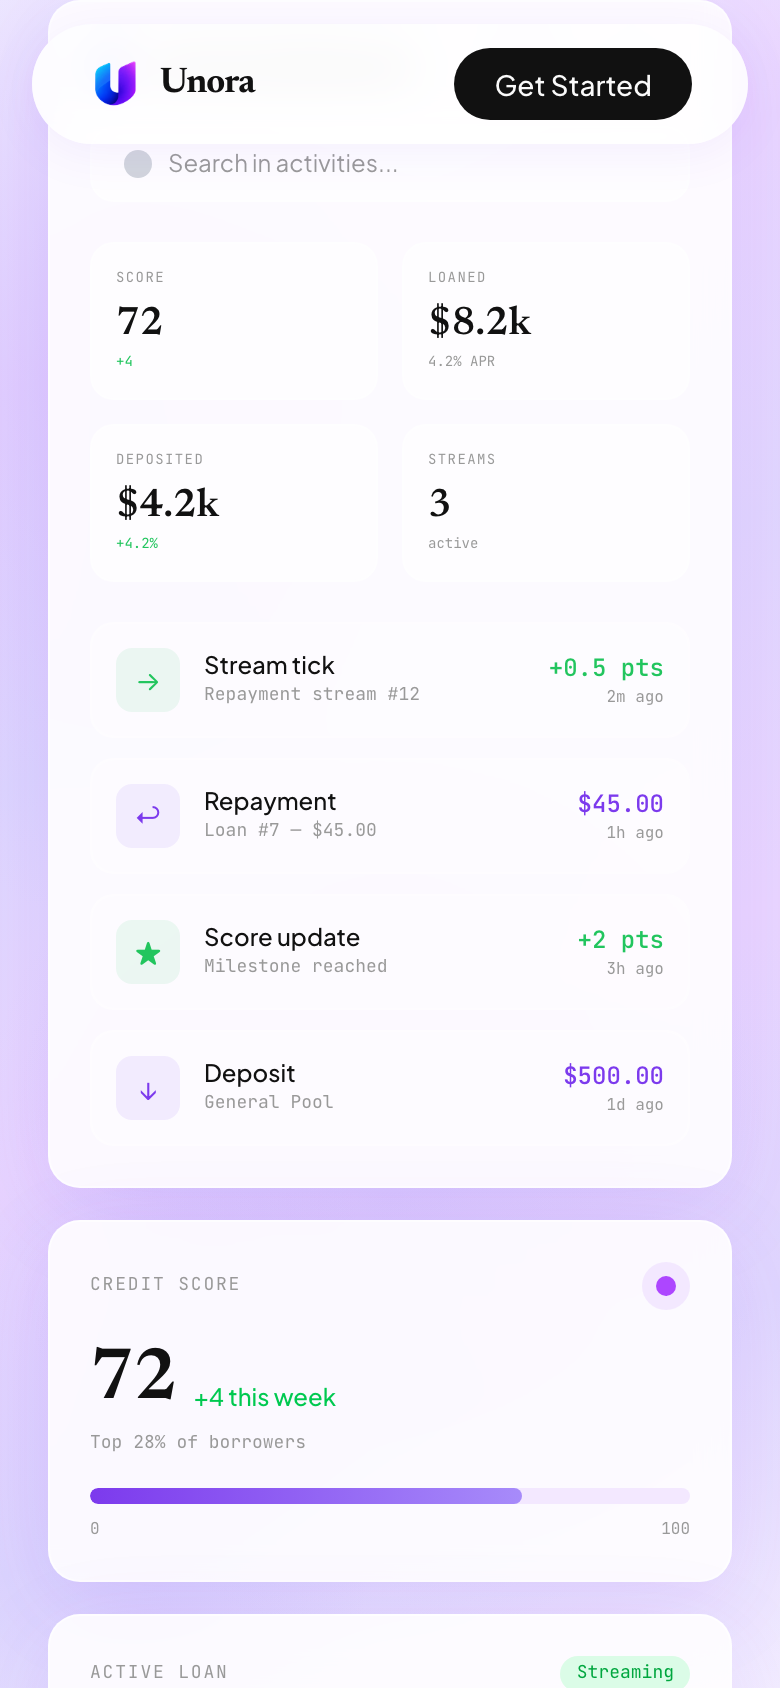
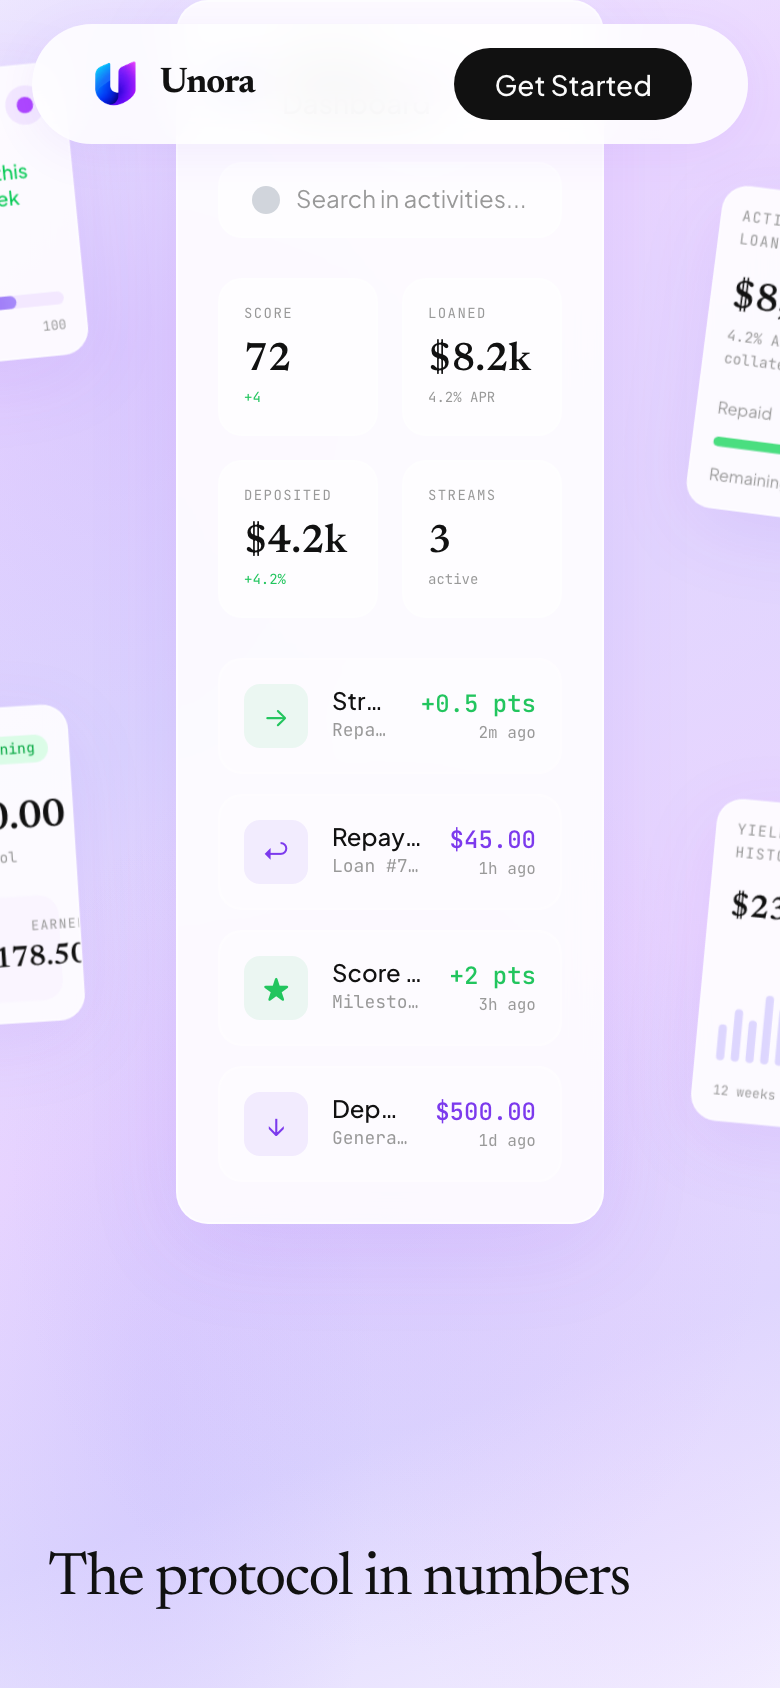
[Frontend design]

diff --git a/app/src/components/Hero.tsx b/app/src/components/Hero.tsx
@@ -2,6 +2,7 @@ import { useRef, useState, useEffect } from 'react';
 import { Link } from 'react-router-dom';
 import { motion, useScroll, useTransform } from 'motion/react';
 import { useTheme } from '@/contexts/ThemeContext';
+import { POSITION_TONES } from '@/lib/position';
 
 const ease = [0.22, 1, 0.36, 1] as const;
 
@@ -63,26 +64,74 @@ function FloatingCard({
 }
 
 /**
- * The same card, in normal flow. Below `lg` the floating arrangement is replaced by this —
- * see the note in `Hero`.
+ * A card back peeking in from the edge of a phone screen.
+ *
+ * Below `lg` the main card takes the middle and these sit behind it, half off-screen, so the
+ * arrangement keeps the depth of the desktop stage without stacking five cards into a page
+ * three screens long.
+ *
+ * These are deliberately **not** the real cards. At a ~50px sliver, a real card's contents
+ * truncate into "Str…" and "$8" — worse than showing nothing. A tinted back with the mark and
+ * the card's name reads as "there are more cards" at any width, which is the whole job here.
  */
-function StaticCard({
-  children,
+function PeekCard({
+  label,
+  tone,
+  side,
+  top,
+  rotate,
   delay,
   ready,
 }: {
-  children: React.ReactNode;
+  label: string;
+  tone: { color: string; fill: string };
+  side: 'left' | 'right';
+  top: string;
+  rotate: number;
   delay: number;
   ready: boolean;
 }) {
+  const [entered, setEntered] = useState(false);
+
+  useEffect(() => {
+    if (!ready) return;
+    const timer = setTimeout(() => setEntered(true), (delay + 0.9) * 1000);
+    return () => clearTimeout(timer);
+  }, [delay, ready]);
+
+  const from = side === 'left' ? -80 : 80;
+
   return (
     <motion.div
-      initial={{ opacity: 0, y: 24 }}
-      animate={ready ? { opacity: 1, y: 0 } : { opacity: 0, y: 24 }}
-      transition={{ duration: 0.6, delay, ease }}
-      className={CARD_SHELL}
+      className="absolute w-[132px] h-[172px] rounded-2xl border shadow-[0_12px_48px_rgba(124,58,237,0.14)] pointer-events-none select-none overflow-hidden"
+      style={{ top, [side]: '-82px', backgroundColor: tone.fill, borderColor: tone.color }}
+      initial={{ opacity: 0, x: from, rotate: rotate * 1.7, scale: 0.8 }}
+      animate={
+        entered
+          ? { opacity: 1, x: 0, scale: 0.86, rotate: [rotate, rotate + 1.6, rotate], y: [0, -8, 0] }
+          : { opacity: 0, x: from, rotate: rotate * 1.7, scale: 0.8 }
+      }
+      transition={
+        entered
+          ? {
+              opacity: { duration: 0.7, delay, ease },
+              x: { duration: 0.85, delay, ease },
+              scale: { duration: 0.85, delay, ease },
+              y: { duration: 5.5, repeat: Infinity, ease: 'easeInOut' },
+              rotate: { duration: 6.5, repeat: Infinity, ease: 'easeInOut' },
+            }
+          : { duration: 0.85, delay, ease }
+      }
     >
-      {children}
+      <div className="p-3 h-full flex flex-col justify-between">
+        <img src="/Unora icon.png" alt="" className="h-4 w-auto opacity-80" />
+        <span
+          className="font-mono text-[8px] uppercase tracking-widest leading-relaxed"
+          style={{ color: tone.color }}
+        >
+          {label}
+        </span>
+      </div>
     </motion.div>
   );
 }
@@ -183,39 +232,42 @@ function LendingCardBody({ ready }: { ready: boolean }) {
 function ActivityCardBody({ ready }: { ready: boolean }) {
   const colors = useTheme();
   return (
-    <div className="p-5 sm:p-6">
-      {/* Header */}
-      <div className="flex items-center justify-between mb-5">
-        <div className="flex items-center gap-3">
-          <img src="/Unora icon.png" alt="" className="h-5 w-auto" />
-          <span className="font-sans text-sm font-medium" style={{ color: colors.text }}>Activity Dashboard</span>
+    <div className="p-4 sm:p-6">
+      {/* Header. "Filters" is dropped below `sm` — at a ~290px card the title, the live badge
+          and the filters chip together push the title into an ellipsis. */}
+      <div className="flex items-center justify-between gap-2 mb-4 sm:mb-5">
+        <div className="flex items-center gap-2 sm:gap-3 min-w-0">
+          <img src="/Unora icon.png" alt="" className="h-4 sm:h-5 w-auto shrink-0" />
+          <span className="font-sans text-xs sm:text-sm font-medium truncate" style={{ color: colors.text }}>
+            Activity Dashboard
+          </span>
         </div>
-        <div className="flex items-center gap-2">
+        <div className="flex items-center gap-2 shrink-0">
           <motion.span
-            className="font-mono text-[8px] px-2.5 py-1 rounded-full bg-purple-100 text-purple-600"
+            className="font-mono text-[8px] px-2 sm:px-2.5 py-1 rounded-full bg-purple-100 text-purple-600"
             initial={{ opacity: 0 }}
             animate={ready ? { opacity: [0, 1, 0.7, 1] } : { opacity: 0 }}
             transition={{ duration: 1.5, delay: 1.8, ease }}
           >
             Live
           </motion.span>
-          <span className="font-mono text-[8px] px-2.5 py-1 rounded-full bg-white/60 border border-white/40" style={{ color: colors.textMuted }}>Filters</span>
+          <span className="hidden sm:inline-block font-mono text-[8px] px-2.5 py-1 rounded-full bg-white/60 border border-white/40" style={{ color: colors.textMuted }}>Filters</span>
         </div>
       </div>
 
       {/* Search */}
       <motion.div
-        className="flex items-center gap-2 px-4 py-2.5 rounded-xl bg-white/60 border border-white/40 mb-5"
+        className="flex items-center gap-2 px-4 py-2.5 rounded-xl bg-white/60 border border-white/40 mb-4 sm:mb-5"
         initial={{ opacity: 0, scaleX: 0.9 }}
         animate={ready ? { opacity: 1, scaleX: 1 } : { opacity: 0, scaleX: 0.9 }}
         transition={{ duration: 0.5, delay: 1.2, ease }}
       >
         <div className="w-3.5 h-3.5 rounded-full bg-gray-300" />
-        <span className="font-sans text-xs" style={{ color: colors.textMuted }}>Search in activities...</span>
+        <span className="font-sans text-xs truncate" style={{ color: colors.textMuted }}>Search in activities...</span>
       </motion.div>
 
       {/* Stats row */}
-      <div className="grid grid-cols-2 sm:grid-cols-4 gap-3 mb-5">
+      <div className="grid grid-cols-2 sm:grid-cols-4 gap-2.5 sm:gap-3 mb-4 sm:mb-5">
         {[
           { label: 'Score', value: '72', sub: '+4', subColor: '#22C55E' },
           { label: 'Loaned', value: '$8.2k', sub: '4.2% APR', subColor: colors.textMuted },
@@ -420,28 +472,28 @@ export default function Hero({ ready }: { ready: boolean }) {
         </FloatingCard>
       </div>
 
-      {/* The same cards, in flow, below `lg`. The dashboard goes first because it is the
-          fullest picture of the product; the four accent cards follow in a two-up grid. */}
-      <div className="relative z-10 w-full max-w-[1400px] mx-auto px-6 mt-12 lg:hidden">
-        <div className="grid grid-cols-1 sm:grid-cols-2 gap-4">
-          <div className="sm:col-span-2">
-            <StaticCard delay={0.9} ready={ready}>
-              <ActivityCardBody ready={ready} />
-            </StaticCard>
-          </div>
-          <StaticCard delay={1.0} ready={ready}>
-            <ScoreCardBody ready={ready} />
-          </StaticCard>
-          <StaticCard delay={1.05} ready={ready}>
-            <LoanCardBody ready={ready} />
-          </StaticCard>
-          <StaticCard delay={1.1} ready={ready}>
-            <LendingCardBody ready={ready} />
-          </StaticCard>
-          <StaticCard delay={1.15} ready={ready}>
-            <YieldCardBody ready={ready} />
-          </StaticCard>
-        </div>
+      {/* Below `lg`: one main card, with the others peeking in from the edges.
+          Unhiding the desktop stage is not an option — it is absolutely positioned across
+          1400px, so on a phone the cards land on top of each other. Stacking all five instead
+          made the hero three screens long.
+
+          The main card is inset by 52px a side, which is exactly how much of a card back
+          shows. No container padding here: the gutter *is* the peek, so it has to be exact. */}
+      <div className="relative z-10 w-full max-w-[1400px] mx-auto mt-12 lg:hidden">
+        <PeekCard label="Score" tone={POSITION_TONES.score} side="left" top="3%" rotate={-8} delay={1.0} ready={ready} />
+        <PeekCard label="Deposit" tone={POSITION_TONES.deposit} side="left" top="58%" rotate={-6} delay={1.15} ready={ready} />
+        <PeekCard label="Loan" tone={POSITION_TONES.borrow} side="right" top="12%" rotate={7} delay={1.05} ready={ready} />
+        <PeekCard label="Yield" tone={POSITION_TONES.deposit} side="right" top="66%" rotate={5} delay={1.2} ready={ready} />
+
+        {/* In flow, so it sets the height everything else is positioned against. */}
+        <motion.div
+          initial={{ opacity: 0, y: 28, scale: 0.97 }}
+          animate={ready ? { opacity: 1, y: 0, scale: 1 } : { opacity: 0, y: 28, scale: 0.97 }}
+          transition={{ duration: 0.7, delay: 0.9, ease }}
+          className={`relative z-10 mx-auto w-[calc(100%-104px)] ${CARD_SHELL}`}
+        >
+          <ActivityCardBody ready={ready} />
+        </motion.div>
       </div>
     </section>
   );

diff --git a/app/src/components/TokenIcon.tsx b/app/src/components/TokenIcon.tsx
@@ -7,15 +7,44 @@ import {
   type IconComponent,
 } from '@web3icons/react';
 
+/** wstETH — Lido's wrapped staked ETH (blue droplet). */
+function WstEthIcon({ size }: { size: number }) {
+  return (
+    <svg width={size} height={size} viewBox="0 0 32 32" fill="none">
+      <circle cx="16" cy="16" r="16" fill="#00A3FF" />
+      <path
+        d="M16 7C16 7 10 14 10 18.5C10 21.5 12.7 24 16 24C19.3 24 22 21.5 22 18.5C22 14 16 7 16 7Z"
+        fill="white"
+      />
+    </svg>
+  );
+}
+
+/** sUSDC — Staked USDC (purple with S). */
+function SusdcIcon({ size }: { size: number }) {
+  return (
+    <svg width={size} height={size} viewBox="0 0 32 32" fill="none">
+      <circle cx="16" cy="16" r="16" fill="#7C3AED" />
+      <text
+        x="16"
+        y="21"
+        textAnchor="middle"
+        fontSize="16"
+        fontWeight="700"
+        fontFamily="system-ui, sans-serif"
+        fill="white"
+      >
+        S
+      </text>
+    </svg>
+  );
+}
+
 /**
  * Real token marks, from `@web3icons/react` (2,500+ crypto SVGs, MIT).
  *
  * WETH maps to the ETH mark deliberately — WETH is wrapped ETH and carries the same mark,
  * and the library has no separate WETH icon.
- *
- * The library has no wstETH or sUSDC, so those fall back to a monogram. That is better than
- * substituting a mark that belongs to a different asset: a wrong logo is worse than no logo,
- * because it tells the user they are looking at something they are not.
  */
 const LOGOS: Record<string, IconComponent> = {
   USDC: TokenUSDC,
@@ -24,6 +53,12 @@ const LOGOS: Record<string, IconComponent> = {
   WBTC: TokenWBTC,
   WETH: TokenETH,
   ETH: TokenETH,
+};
+
+/** Custom SVG icons for tokens not in web3icons. */
+const CUSTOM_ICONS: Record<string, React.FC<{ size: number }>> = {
+  wstETH: WstEthIcon,
+  sUSDC: SusdcIcon,
 };
 
 /**
@@ -41,7 +76,20 @@ export default function TokenIcon({
   color: string;
   size?: number;
 }) {
-  const Logo = LOGOS[symbol.toUpperCase()];
+  const upper = symbol.toUpperCase();
+  const Logo = LOGOS[upper];
+  const CustomIcon = CUSTOM_ICONS[symbol] ?? CUSTOM_ICONS[upper];
+
+  if (CustomIcon) {
+    return (
+      <span
+        className="flex items-center justify-center shrink-0 rounded-full overflow-hidden"
+        style={{ width: size, height: size }}
+      >
+        <CustomIcon size={size} />
+      </span>
+    );
+  }
 
   if (Logo) {
     return (
@@ -50,7 +98,7 @@ export default function TokenIcon({
         style={{
           width: size,
           height: size,
-          backgroundColor: symbol.toUpperCase() === 'WBTC' ? '#F7931A' : 'transparent',
+          backgroundColor: upper === 'WBTC' ? '#F7931A' : 'transparent',
         }}
       >
         <Logo size={size} variant="branded" />

diff --git a/app/src/components/dashboard/PositionsDeck.tsx b/app/src/components/dashboard/PositionsDeck.tsx
@@ -6,6 +6,7 @@ import { useMediaQuery } from '@/hooks/useMediaQuery';
 import { SCORE } from '@/lib/protocol';
 import {
   BORROW_POSITION,
+  POSITION_TONES as TONE,
   TIER_LADDER,
   blendedApy,
   poolName,
@@ -24,24 +25,13 @@ const CARD_H = 224;
  */
 const SPREAD = 296;
 
-/**
- * Below this the fan is replaced by a plain stack — see `PositionsDeck`.
+/** Below this the fan is replaced by a plain stack — see `PositionsDeck`.
  *
  * `xl`, not `md`. The fanned deck spans 2 x SPREAD + CARD_W = 912px, and the content column
  * only offers that much at 1280 once the 240px rail and the page gutters are subtracted. At
  * 1024 it has 720px, so a fan there pushes the outer two cards off-screen.
  */
 const FAN_QUERY = '(min-width: 1280px)';
-
-/**
- * Colour carries meaning across the three cards: purple is identity, green is money coming in,
- * amber is money owed. The badge carries the finer status.
- */
-const TONE = {
-  score: { color: '#7C3AED', fill: '#E7DBF1' },
-  borrow: { color: '#BA7517', fill: '#EFE3D3' },
-  deposit: { color: '#639922', fill: '#E3E8D5' },
-};
 
 interface DeckCard {
   key: string;

diff --git a/app/src/lib/position.ts b/app/src/lib/position.ts
@@ -334,6 +334,16 @@ export function positionDeposited(lending: LendingPosition): number {
   return lending.holdings.reduce((sum, h) => sum + h.deposited, 0);
 }
 
+/**
+ * Card palette for a wallet's positions. Purple is identity, green is money coming in, amber
+ * is money owed. Shared so the landing hero's card backs match the dashboard's deck.
+ */
+export const POSITION_TONES = {
+  score: { color: '#7C3AED', fill: '#E7DBF1' },
+  borrow: { color: '#BA7517', fill: '#EFE3D3' },
+  deposit: { color: '#639922', fill: '#E3E8D5' },
+} as const;
+
 export function poolName(pool: PoolId): string {
   return POOLS.find((p) => p.id === pool)?.name ?? pool;
 }

diff --git a/.workbuddy-ai/memory/2026-09-17.md b/.workbuddy-ai/memory/2026-09-17.md
@@ -772,6 +772,33 @@ against the left edge of its circle.
 `max-w-[1200px]`, sections `max-w-7xl`, hero cards `max-w-[1400px]` — which is why the nav did not
 line up with the content below it. Still to reconcile if the user raises it again.
 
+### Hero cards were invisible on phones
+
+The five hero cards were `hidden lg:block` (`md` for the centre one), so below 1024px the hero was a
+headline, a paragraph and two buttons — **none of the product**. Reported as "why are the landing
+page cards not displaying on smaller devices".
+
+**Unhiding was not the fix.** The arrangement is absolutely positioned across a 1400px stage, so on
+a phone the cards land on top of each other. There are now two arrangements of the same five cards,
+with the contents extracted into shared bodies (`ScoreCardBody`, `LendingCardBody`,
+`ActivityCardBody`, `LoanCardBody`, `YieldCardBody`): floating/rotating on `lg`+, in flow below it
+(dashboard full width, then a two-up grid, one-up below 640px).
+
+### ⚠ `--virtual-time-budget` screenshots lie about framer-motion
+
+The one-shot `chrome --headless --virtual-time-budget=9000 --screenshot` pattern **cuts framer-motion
+entrance animations off partway**, so the hero rendered as an empty lavender rectangle with no CTAs
+and no cards. I nearly reported a regression that did not exist.
+
+**Use CDP with a real `sleep` for anything motion-animated.** Verified: at 1440 the stage holds 5
+cards at opacity 1 and the in-flow grid is `display:none`; at 390 the in-flow cards render with no
+horizontal overflow. The one-shot pattern is still fine for static pages.
+
+**Related:** that same one-shot pattern without `Emulation.setDeviceMetricsOverride` also renders a
+phone-width page as a cropped desktop layout. For anything below 768px, always set device metrics
+over CDP rather than trusting `--window-size`.
+
+
 
 
 
